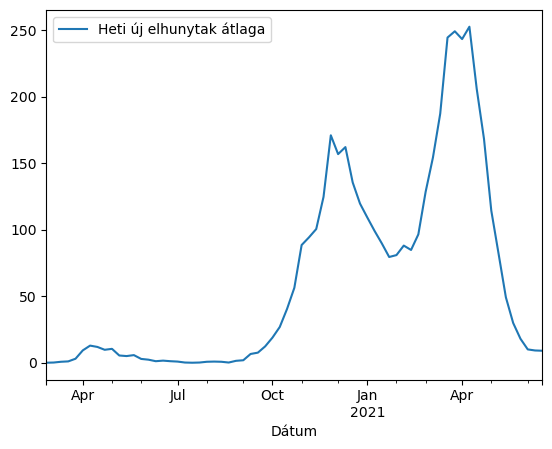
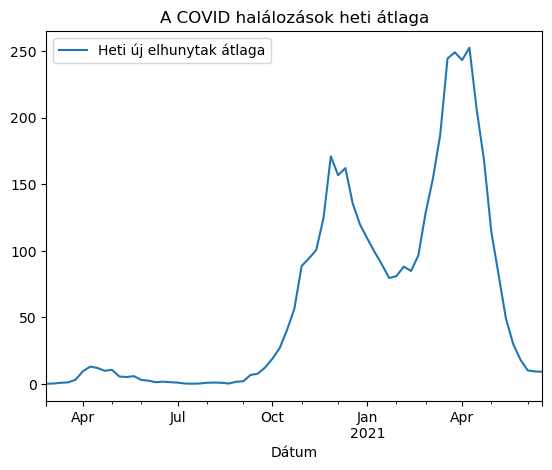
Title hozzáadása a plot-okhoz

diff --git a/kép_elhunytak_átlag_életkora.py b/kép_elhunytak_átlag_életkora.py
@@ -23,7 +23,7 @@ dfkor['Átlag életkor'] = dfkor.apply(lambda row: row['Kor'] if int(row['Heti e
 
 dfkor = dfkor.rename(columns = {'Hét kezdet': 'Dátum'}, inplace = False)
 
-plot = dfkor.plot(x='Dátum', y='Átlag életkor')	
+plot = dfkor.plot(x='Dátum', y='Átlag életkor', title='A COVID-ban elhunytak átlag életkora')
 
 fig = plot.get_figure()
 fig.savefig(BASEDIR + "/képek/ElhunytakÁtlagÉletkora.png", bbox_inches = "tight")

diff --git a/kép_covid_oltottak.py b/kép_covid_oltottak.py
@@ -16,7 +16,7 @@ dfheti = (df.groupby('Hét kezdet', as_index=False).mean())
 dfheti['Heti új beoltottak átlaga'] = dfheti['Napi új beoltott']
 dfheti['Dátum'] = dfheti['Hét kezdet']
 
-plot = dfheti.plot(x='Dátum', y='Heti új beoltottak átlaga')	
+plot = dfheti.plot(x='Dátum', y='Heti új beoltottak átlaga', title='A COVID ellen beoltottak számának heti átlaga')	
 
 
 fig = plot.get_figure()

diff --git a/kép_covid_halottak.py b/kép_covid_halottak.py
@@ -15,7 +15,7 @@ dfheti = (df.groupby('Hét kezdet', as_index=False).mean())
 dfheti['Heti új elhunytak átlaga'] = dfheti['Napi új elhunyt']
 dfheti['Dátum'] = dfheti['Hét kezdet']
 
-plot = dfheti.plot(x='Dátum', y='Heti új elhunytak átlaga')	
+plot = dfheti.plot(x='Dátum', y='Heti új elhunytak átlaga', title="A COVID halálozások heti átlaga")	
 
 
 fig = plot.get_figure()
